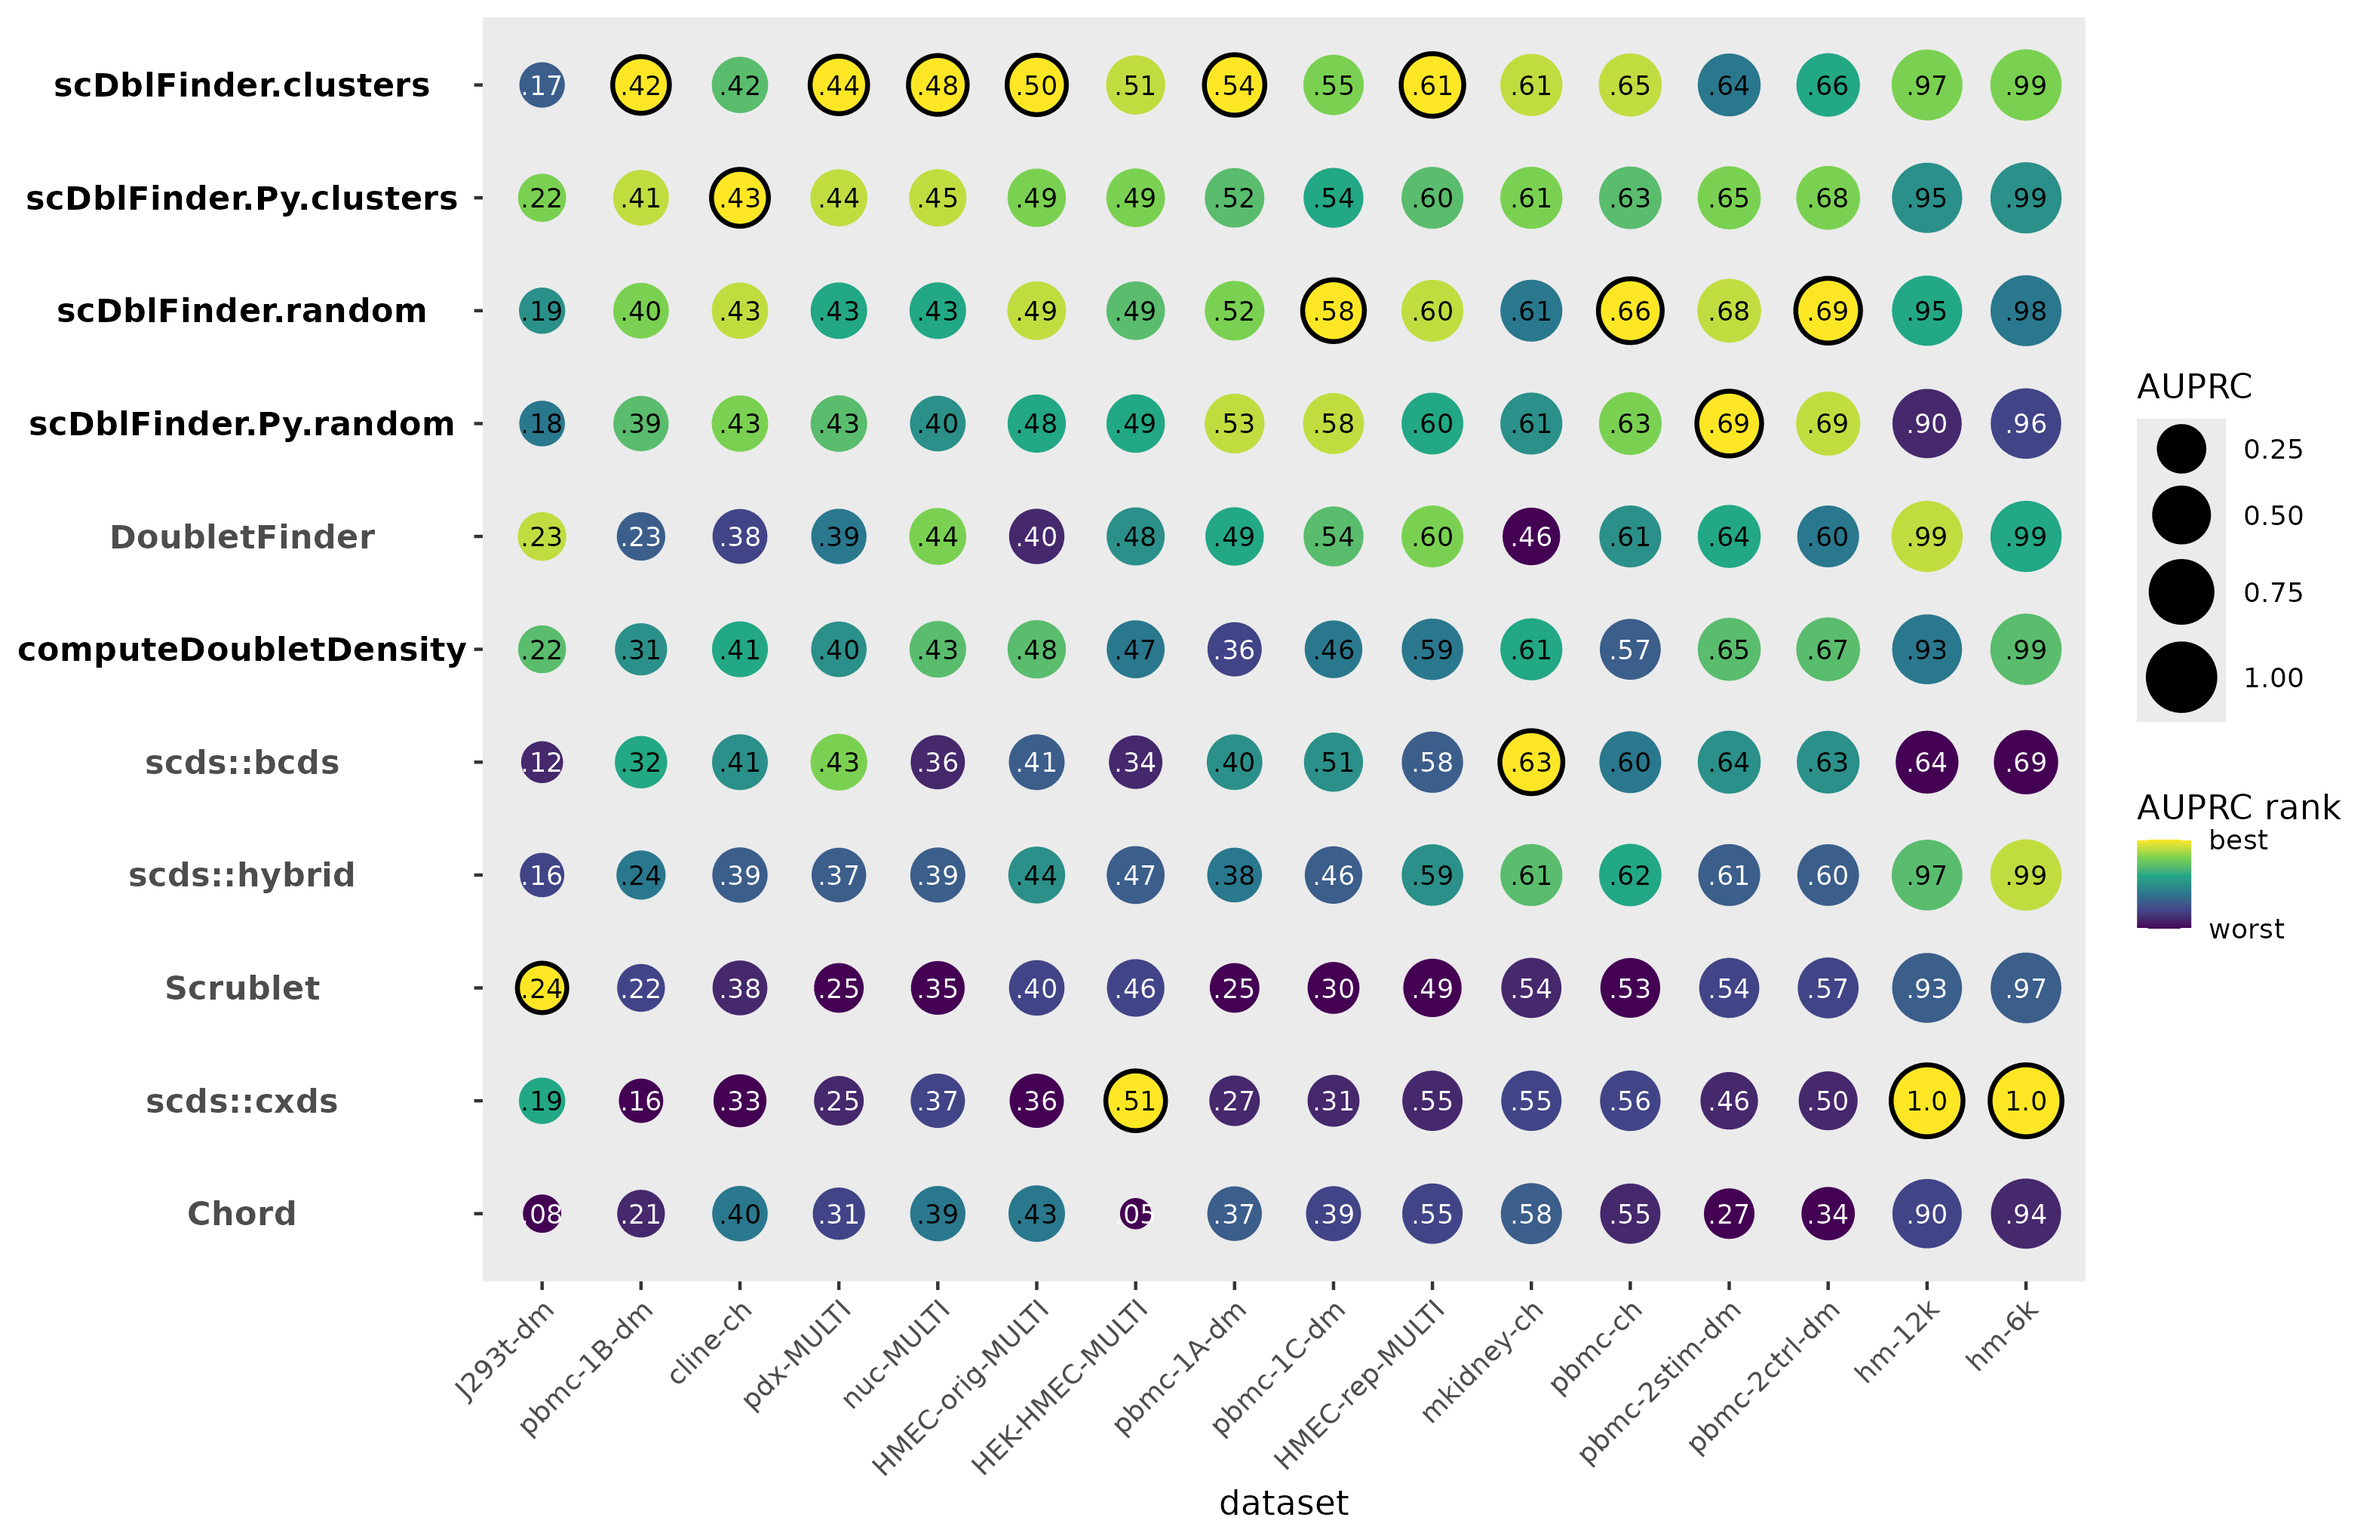
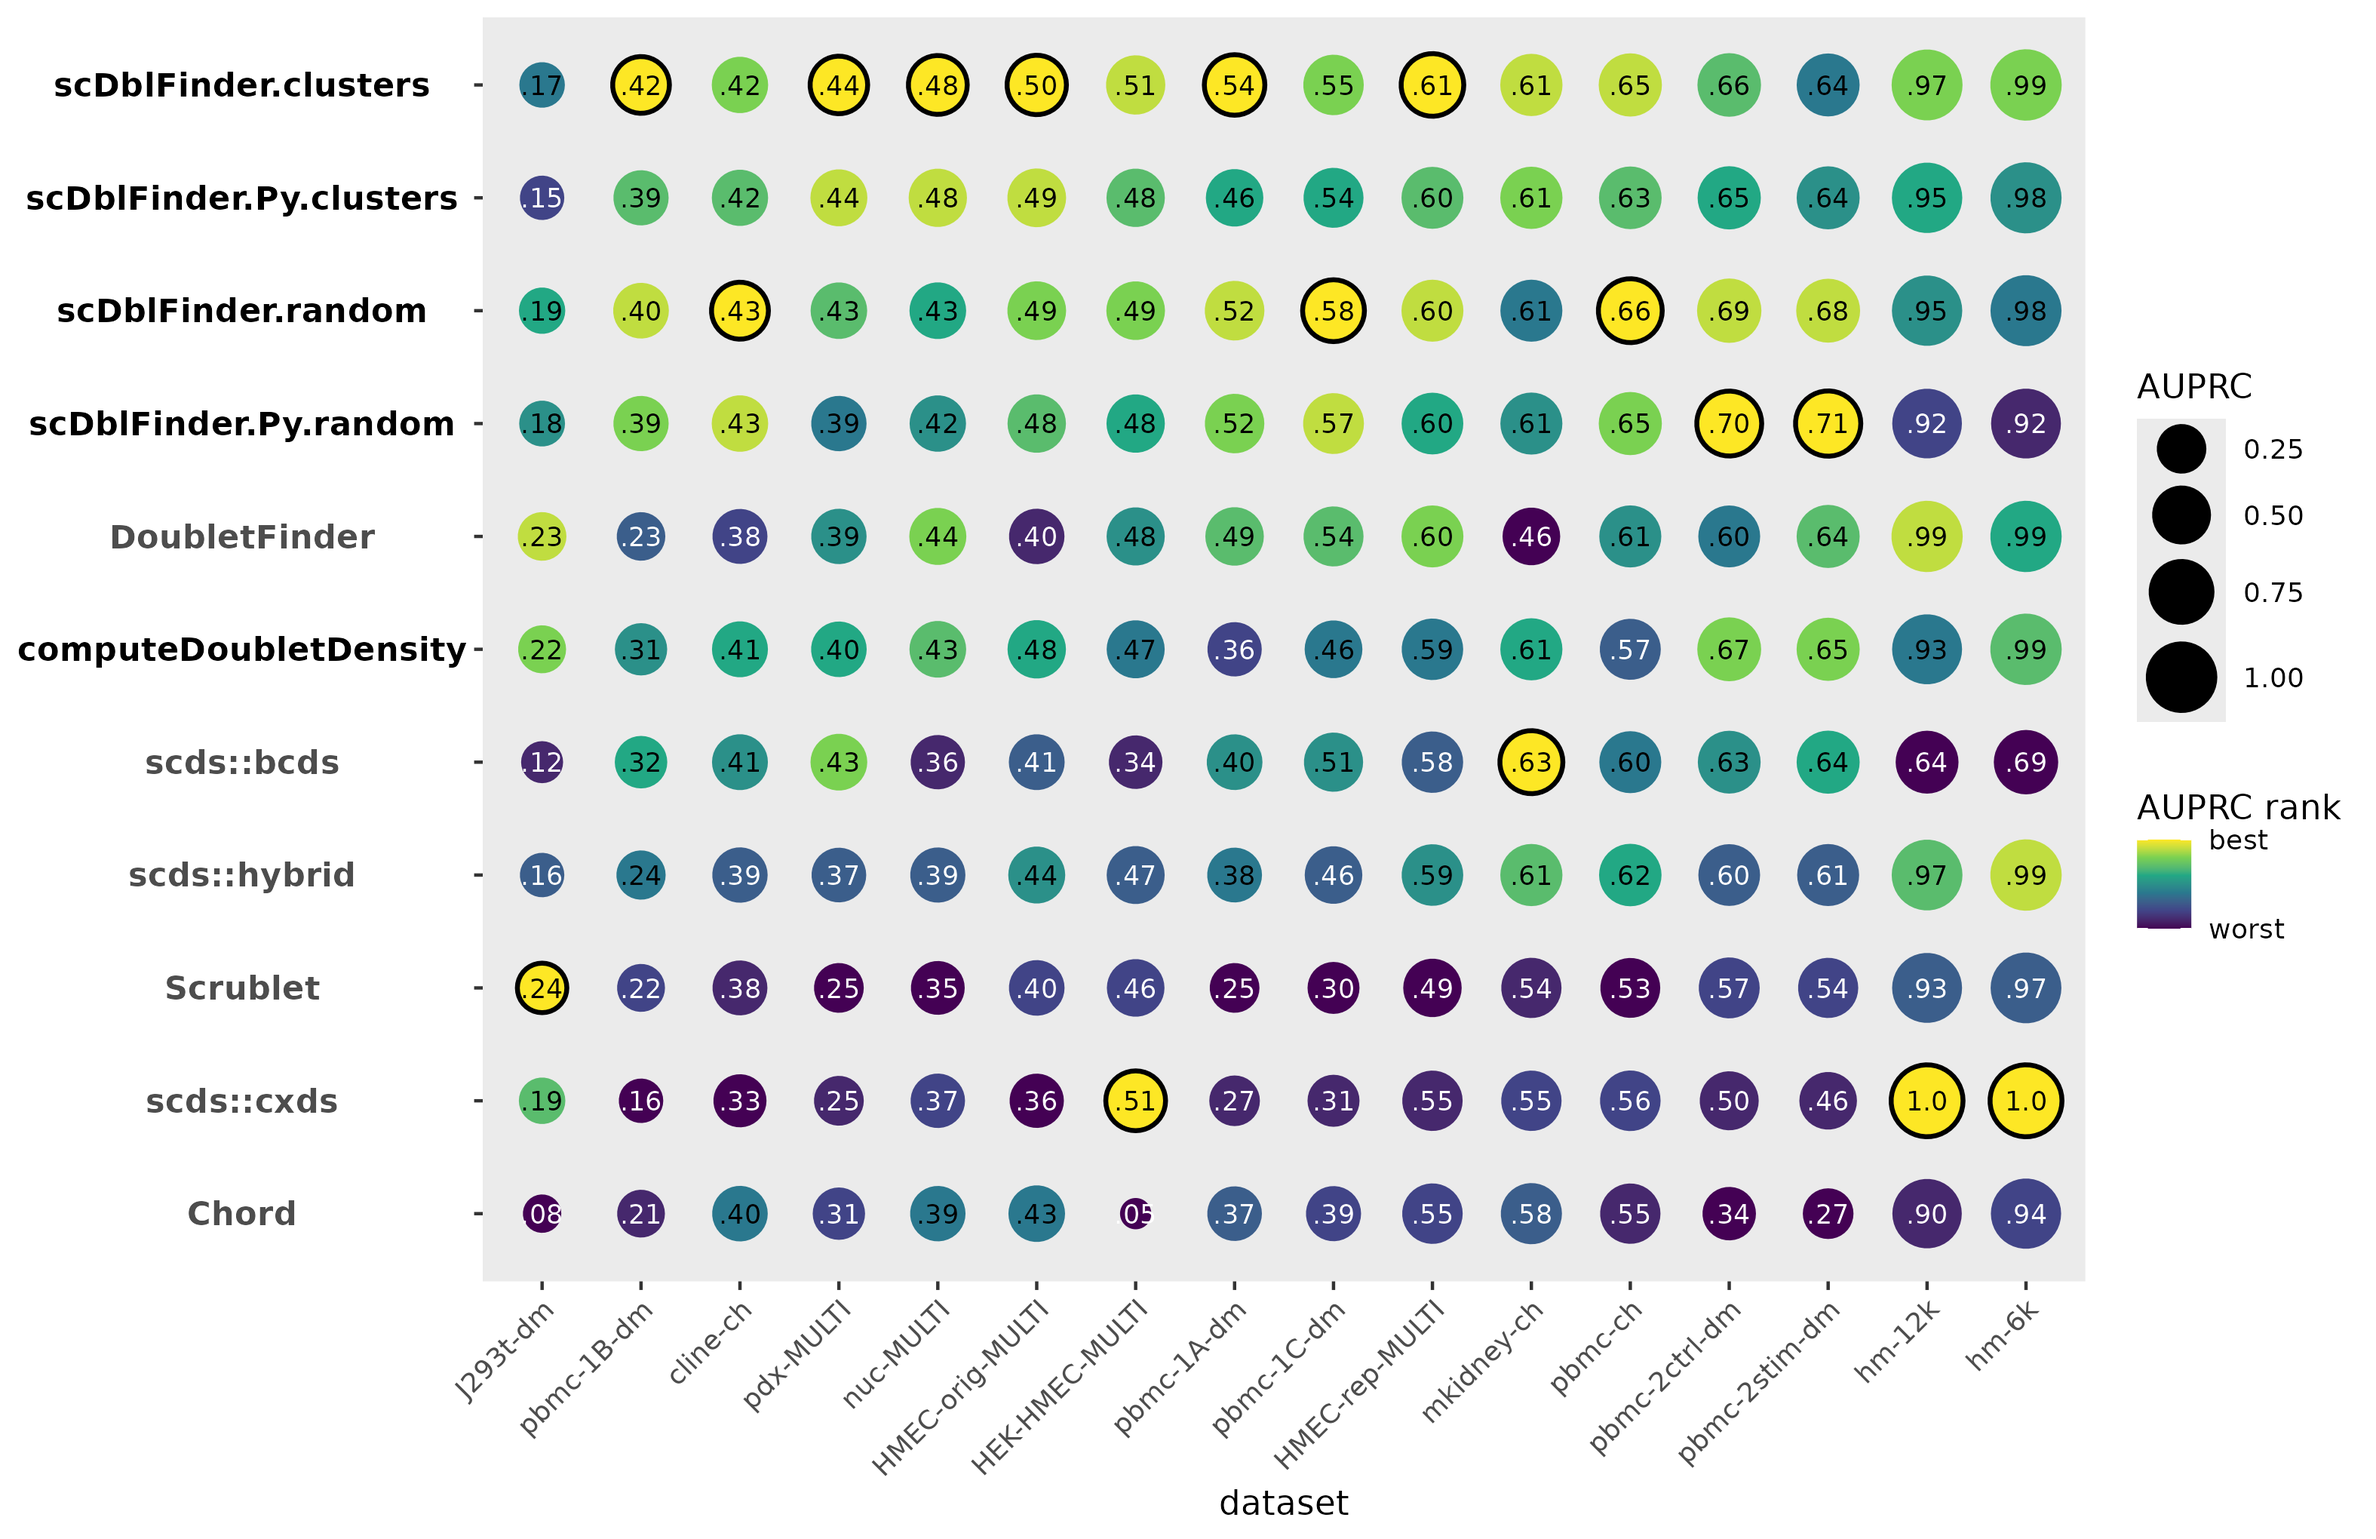
updated and reran benchmark

diff --git a/benchmarking/run_python_benchmark.py b/benchmarking/run_python_benchmark.py
@@ -19,7 +19,7 @@ def eval_mode(adata, mode_name, clusters_col, ds_name, use_gpu=False):
 
     elapsed = time.time() - st
 
-    truth_labels = (adata_res.obs['truth'] == 'doublet').astype(int)
+    truth_labels = (adata_res.obs['type'] == 'doublet').astype(int)
     scores = adata_res.obs['scDblFinder_score']
 
     auroc = roc_auc_score(truth_labels, scores)
@@ -46,8 +46,8 @@ def main():
 
         adata = sc.read_h5ad(ds)
         # some datasets string parsing
-        if 'truth' in adata.obs:
-            adata.obs['truth'] = adata.obs['truth'].str.lower()
+        if 'type' in adata.obs:
+            adata.obs['type'] = adata.obs['type'].str.lower()
 
         print(f"  -> Clustered Mode")
         res_clust = eval_mode(adata, "scDblFinder.Py.clusters", "clusters", ds_name,
